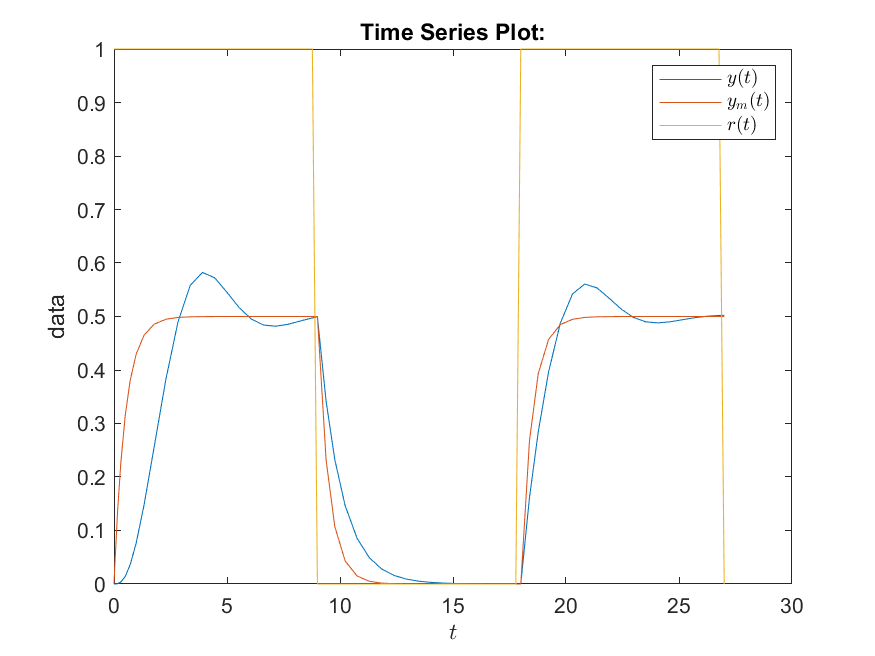
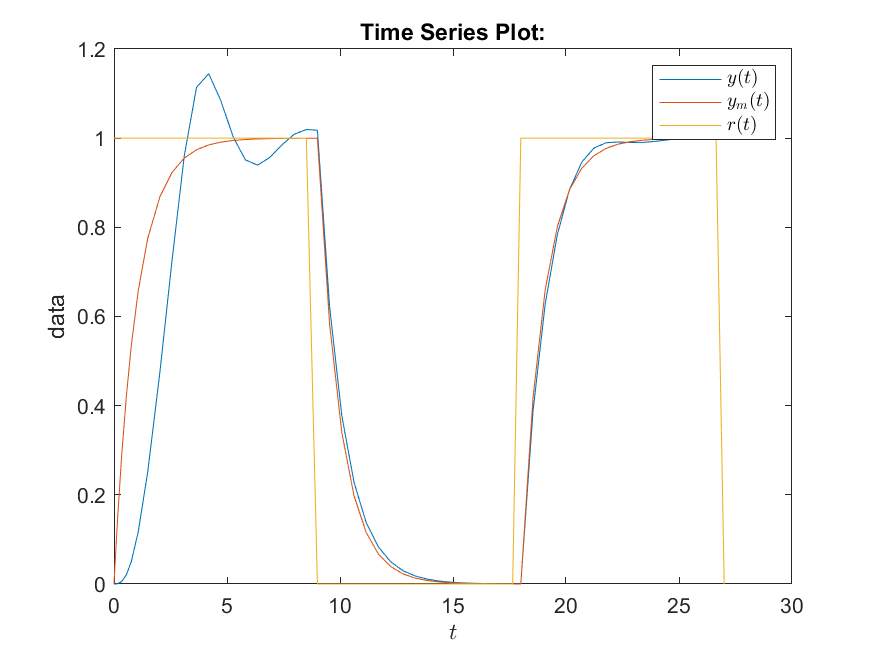
updates trabalho-1

diff --git a/trabalho-1/controle_adap_script.m b/trabalho-1/controle_adap_script.m
@@ -9,7 +9,7 @@ ref_sin_freq = 1/ref_pulse_T;
 switch_ref = 0;
 
 % reference plant
-am = 2;
+am = 1;
 bm = 1;
 
 % real plant
